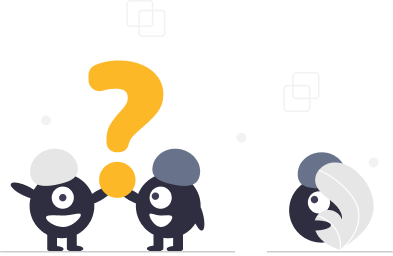
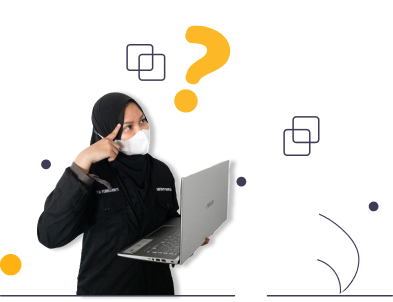
menganti gambar, dan merubah beberapa tampilan

diff --git a/libraries/css/main.scss b/libraries/css/main.scss
@@ -178,8 +178,8 @@ section.btn-cta-box-bottom {
     }
     &.btn-contact-us {
       color: #68738b;
-     padding-left: 30px;
-     padding-right: 30px;
+      padding-left: 30px;
+      padding-right: 30px;
     }
   }
 }
@@ -217,6 +217,56 @@ footer {
     width: 100%;
     & a {
       color: map-get($color-pallete, "Primary-btn");
+    }
+  }
+}
+
+.image-box-aff {
+  padding-top: 50px;
+  width: 100%;
+  margin-bottom: -10px;
+  img {
+    width: 100%;
+    height: 100%;
+    object-fit: contain;
+  }
+}
+
+// responsive break point
+@media (max-width: 600) {
+  section.section-hero {
+    padding: 70px 0px;
+    .left-hero {
+      & h1 {
+        color: map-get($color-pallete, "Heading");
+        font-family: "poppins-bold";
+        font-size: 1.5rem !important;
+        margin-bottom: 10px;
+      }
+      & p {
+        font-size: 1rem;
+        color: map-get($color-pallete, "SubHeading");
+        margin-bottom: 30px;
+      }
+    }
+  }
+}
+
+@media (min-width: 768px) and (max-width: 991.98px) {
+  section.section-hero {
+    padding: 70px 0px;
+    .left-hero {
+      & h1 {
+        color: map-get($color-pallete, "Heading");
+        font-family: "poppins-bold";
+        font-size: 1.8rem !important;
+        margin-bottom: 10px;
+      }
+      & p {
+        font-size: 1rem;
+        color: map-get($color-pallete, "SubHeading");
+        margin-bottom: 30px;
+      }
     }
   }
 }

diff --git a/libraries/css/main.css b/libraries/css/main.css
@@ -237,4 +237,51 @@ footer .copyright {
 footer .copyright a {
   color: #fdb827;
 }
+
+.image-box-aff {
+  padding-top: 50px;
+  width: 100%;
+  margin-bottom: -10px;
+}
+
+.image-box-aff img {
+  width: 100%;
+  height: 100%;
+  -o-object-fit: contain;
+     object-fit: contain;
+}
+
+@media (max-width: 600) {
+  section.section-hero {
+    padding: 70px 0px;
+  }
+  section.section-hero .left-hero h1 {
+    color: #14274e;
+    font-family: "poppins-bold";
+    font-size: 1.5rem !important;
+    margin-bottom: 10px;
+  }
+  section.section-hero .left-hero p {
+    font-size: 1rem;
+    color: #68738b;
+    margin-bottom: 30px;
+  }
+}
+
+@media (min-width: 768px) and (max-width: 991.98px) {
+  section.section-hero {
+    padding: 70px 0px;
+  }
+  section.section-hero .left-hero h1 {
+    color: #14274e;
+    font-family: "poppins-bold";
+    font-size: 1.8rem !important;
+    margin-bottom: 10px;
+  }
+  section.section-hero .left-hero p {
+    font-size: 1rem;
+    color: #68738b;
+    margin-bottom: 30px;
+  }
+}
 /*# sourceMappingURL=main.css.map */

diff --git a/index.html b/index.html
@@ -168,6 +168,13 @@
       </div>
     </section>
 
+    <div class="image-box-aff">
+      <div class="container">
+        <img src="libraries/images/afterFooter.png" alt="" />
+      </div>
+
+      
+    </div>
     <footer>
       <div class="container">
         <div class="row">
